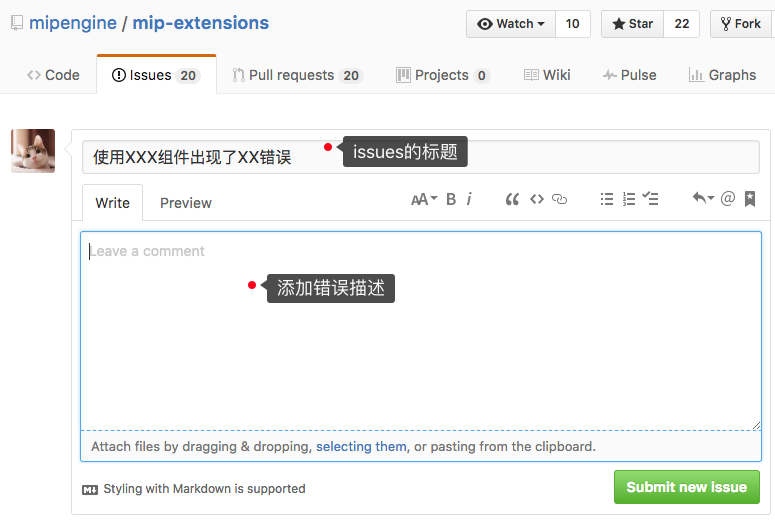
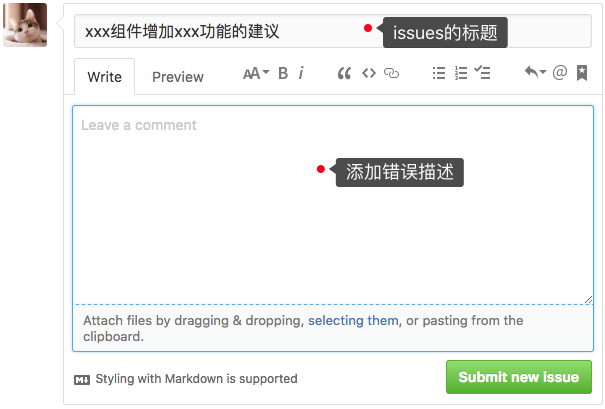
‘update’

diff --git a/16_向MIP开源项目提交Issues.md b/16_向MIP开源项目提交Issues.md
@@ -1,0 +1,28 @@
+# 向MIP开源项目提交Issues
+Issues 是 github 管理需求，讨论技术方案的方式，[附：官方解释](https://guides.github.com/features/issues/)。MIP是在github上的开源项目，也使用 Issue 来做任务管理。  
+
+## Issues 在 MIP 项目中的应用
+MIP 项目中的 Issues 主要有两种用法：
+1. **记录bug, 管理进度。**除了直接提交pull request外，您还可以通过提交 Issues 的方式参与MIP项目。MIP项目组会定期查看所有 Issues, 通过给 Issues 打上不同的标签来标识问题和解决进度，如 [Issues/#156](https://github.com/mipengine/mip-extensions/issues/156) 和 [Issues/#333](https://github.com/mipengine/mip-extensions/issues/333)。
+2. **记录技术方案的讨论过程。** 如 [Issues/#376](https://github.com/mipengine/mip-extensions/issues/376) 和 [Issues/#348](https://github.com/mipengine/mip-extensions/issues/348)。
+
+## 如何添加一个 Issue：
+
+### 1. 进入 MIP 组件项目页  
+> [https://github.com/mipengine/mip-extensions](https://github.com/mipengine/mip-extensions)
+
+### 2. 进入 Issues 目录  
+
+![mip-extensions](../img/16_1.jpg)   
+
+### 3. 打开并创建新的 Issue
+
+![new issues](../img/16_2.jpg)  
+
+### 4. 输入issues的内容并提交
+
+![content](../img/16_3.jpg)   
+
+### 5. 提交之后可以在issues列表中查看您提出的issues，项目组会跟进您提出的问题。   
+
+![list](../img/16_4.jpg)  
